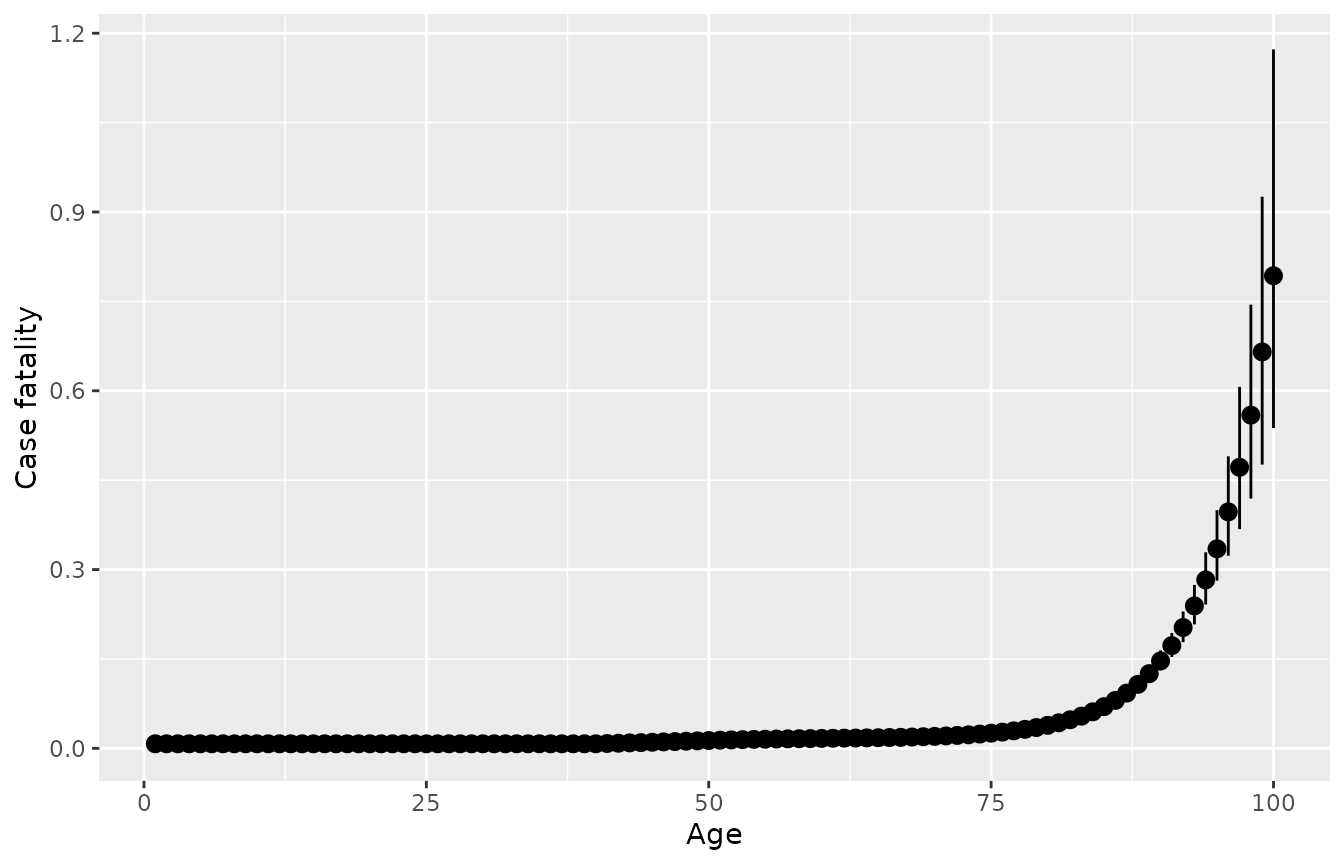
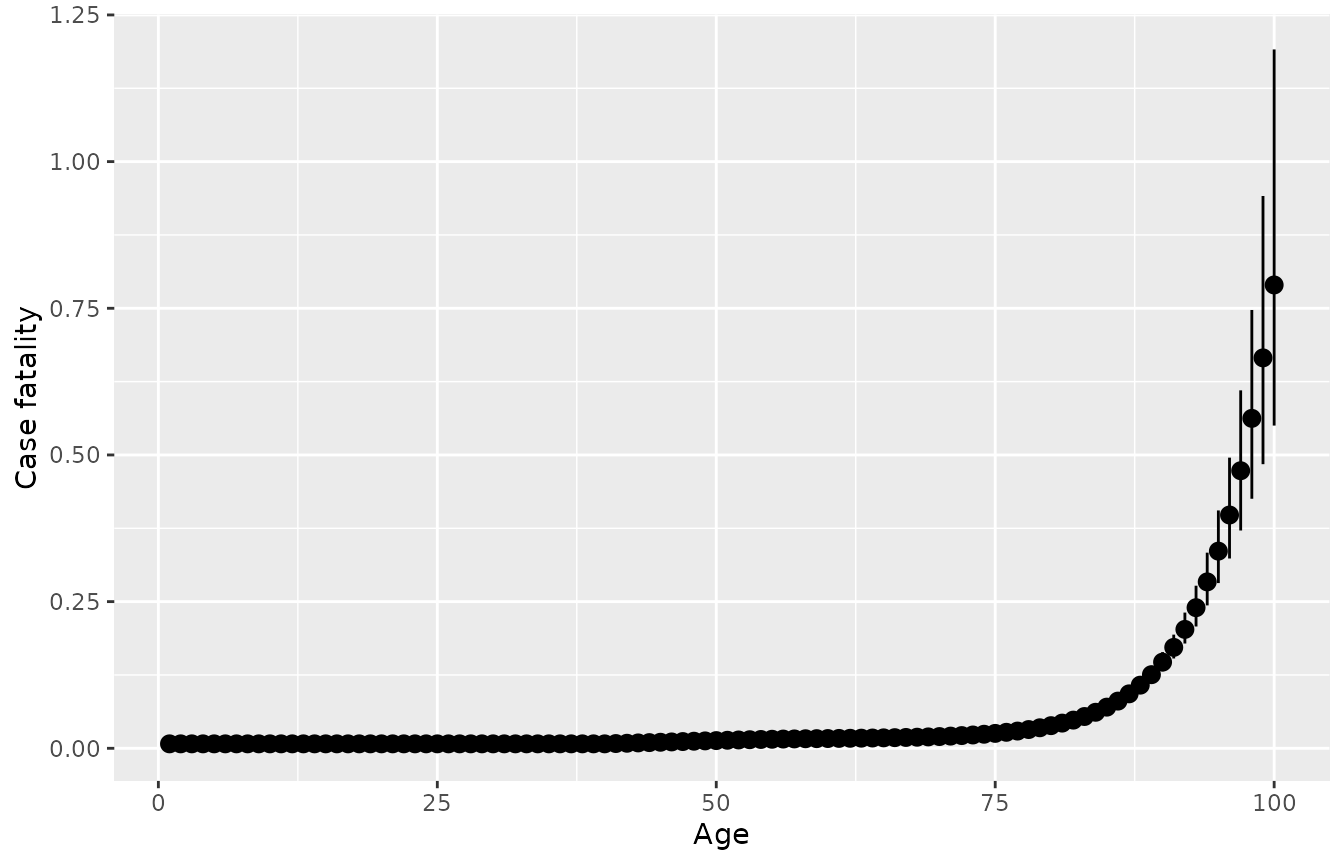
Built site for disbayes: 0.1@0474dcb

diff --git a/articles/disbayes.html b/articles/disbayes.html
@@ -325,12 +325,12 @@
   <span class="fu"><a href="https://dplyr.tidyverse.org/reference/filter.html">filter</a></span><span class="op">(</span><span class="va">var</span><span class="op">==</span><span class="st">"cf"</span>, <span class="fu"><a href="https://dplyr.tidyverse.org/reference/between.html">between</a></span><span class="op">(</span><span class="va">age</span>,<span class="fl">60</span>,<span class="fl">65</span><span class="op">)</span><span class="op">)</span> <span class="op">%&gt;%</span>
   <span class="fu"><a href="https://dplyr.tidyverse.org/reference/select.html">select</a></span><span class="op">(</span><span class="va">age</span>, <span class="va">`25%`</span>, <span class="va">`50%`</span>, <span class="va">`75%`</span><span class="op">)</span></code></pre></div>
 <pre><code>##   age        25%        50%        75%
-## 1  60 0.01552909 0.01663680 0.01780419
-## 2  61 0.01573263 0.01684570 0.01796338
-## 3  62 0.01599033 0.01710698 0.01816131
-## 4  63 0.01626516 0.01730529 0.01836056
-## 5  64 0.01651485 0.01753174 0.01860693
-## 6  65 0.01678806 0.01780160 0.01888565</code></pre>
+## 1  60 0.01556751 0.01663845 0.01786854
+## 2  61 0.01579201 0.01686374 0.01802959
+## 3  62 0.01604432 0.01706818 0.01822733
+## 4  63 0.01625676 0.01727080 0.01841023
+## 5  64 0.01651401 0.01754149 0.01865682
+## 6  65 0.01677738 0.01780715 0.01895023</code></pre>
 <p>The default <code>plot</code> method for objects returned by <code>disbayes</code> plots the posterior summaries for case fatality, allowing a quick check of the model results. Or do <code><a href="https://rdrr.io/r/graphics/plot.default.html">plot(..., variable="inc")</a></code> for incidence. The function returns a <code>ggplot2</code> object that can be modified with <code>ggplot2</code> functions, e.g. to add axis labels.</p>
 <div class="sourceCode" id="cb17"><pre class="downlit sourceCode r">
 <code class="sourceCode R"><span class="kw"><a href="https://rdrr.io/r/base/library.html">library</a></span><span class="op">(</span><span class="va"><a href="https://ggplot2.tidyverse.org">ggplot2</a></span><span class="op">)</span>
